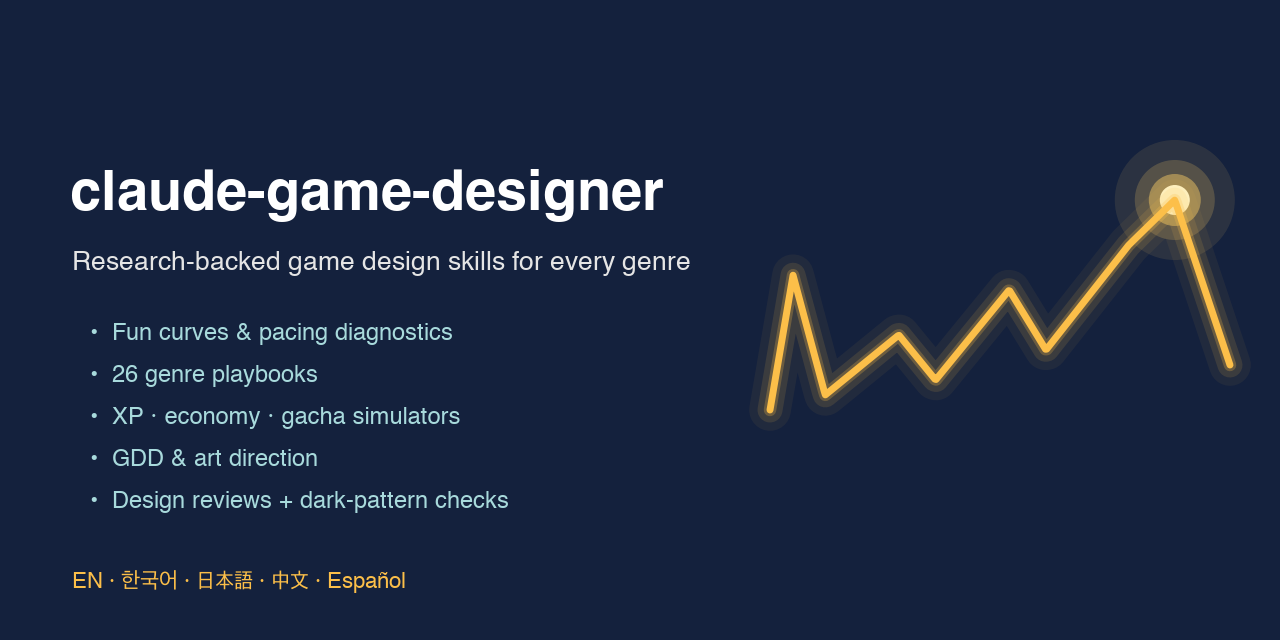
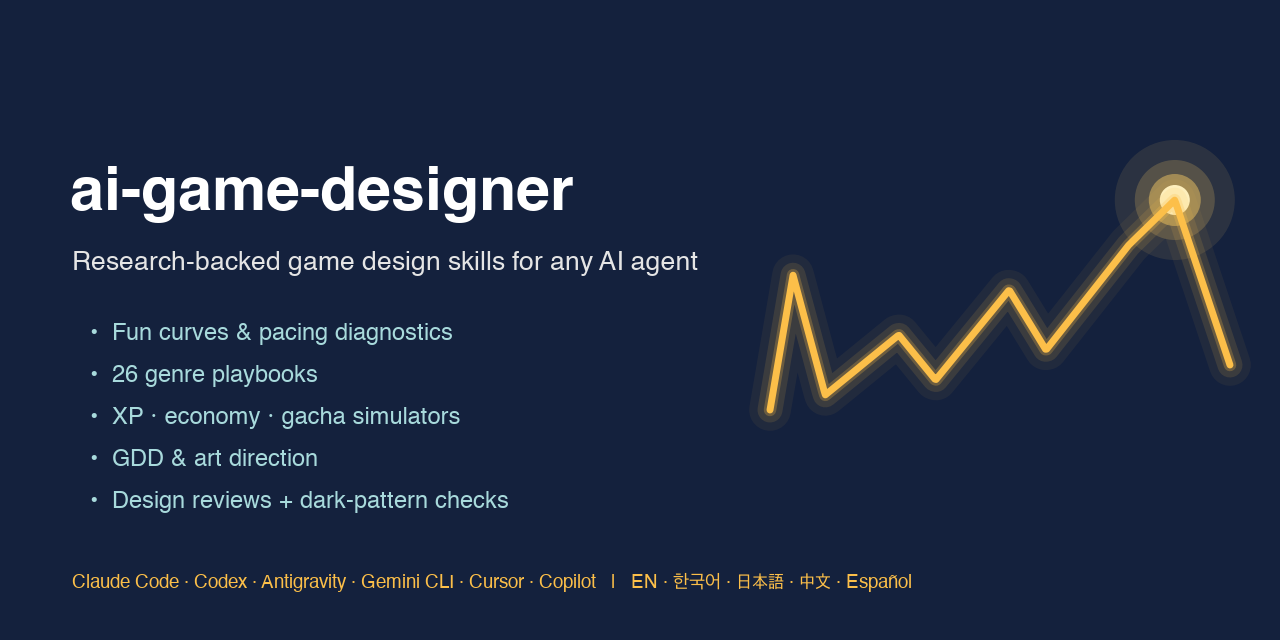
docs: rename to ai-game-designer and document cross-agent install
README/README.ko install tables per agent, showcase summary, banner,
changelog 1.1.0, contributing validators.

diff --git a/README.md b/README.md
@@ -1,5 +1,5 @@
 <p align="center">
-  <img src="docs/images/banner.png" alt="claude-game-designer: research-backed game design skills for every genre" width="100%">
+  <img src="docs/images/banner.png" alt="ai-game-designer: research-backed game design skills for any AI agent" width="100%">
 </p>
 
 <p align="center">
@@ -7,14 +7,14 @@
   <img alt="Skills: 6" src="https://img.shields.io/badge/skills-6-fcbf49">
   <img alt="Genre playbooks: 26" src="https://img.shields.io/badge/genre%20playbooks-26-2a78d6">
   <img alt="Languages" src="https://img.shields.io/badge/answers%20in-EN%20%C2%B7%20KO%20%C2%B7%20JA%20%C2%B7%20ZH%20%C2%B7%20ES-1baf7a">
-  <img alt="Works in Claude Code and the Claude app" src="https://img.shields.io/badge/works%20in-Claude%20Code%20%7C%20Claude%20app-14213d">
+  <img alt="Works with Claude Code, Codex, Antigravity, Gemini CLI, Cursor, Copilot" src="https://img.shields.io/badge/works%20with-Claude%20Code%20%C2%B7%20Codex%20%C2%B7%20Antigravity%20%C2%B7%20Gemini%20CLI%20%C2%B7%20Cursor%20%C2%B7%20Copilot-14213d">
 </p>
 
 <p align="center"><b>English</b> · <a href="README.ko.md">한국어</a></p>
 
-# claude-game-designer
+# ai-game-designer
 
-**Turn Claude into a senior game designer who can show its work.** Six skills cover every genre,
+**Turn any AI agent into a senior game designer who can show its work.** Six skills cover every genre,
 from first concept to soft launch: pacing you can plot, numbers you can simulate, documents your
 team will actually read, and reviews that catch dark patterns before players or regulators do.
 
@@ -29,10 +29,11 @@ team will actually read, and reviews that catch dark patterns before players or 
 - **Answers in your language.** It detects the language you write in, answers in it, and
   shows each technical term with the English term on first use, e.g. `관심 곡선 (Interest Curve)`.
   A 5-language glossary ships with it.
-- **Works everywhere.** Skills only: no MCP servers, API keys or hooks. Install it in Claude Code
-  or upload it to the Claude app.
+- **Works with your agent.** Native packages for Claude Code, OpenAI Codex, Antigravity and Gemini
+  CLI, plus an installer for Cursor, Copilot, OpenCode and any agent that reads `SKILL.md`
+  folders. Skills only: no MCP servers, API keys or hooks.
 
-> Unofficial community project. Not affiliated with or endorsed by Anthropic.
+> Unofficial community project. Not affiliated with or endorsed by Anthropic, OpenAI or Google.
 
 ---
 
@@ -76,37 +77,60 @@ and flags undercosted and overcosted cards.
 
 <p align="center"><img src="docs/images/cost-curve.png" width="60%" alt="Card cost curve with outliers"></p>
 
+## Showcase: six real sessions
+
+We ran six design sessions **in parallel** across **Claude Code, Codex and Antigravity**, in
+Korean, English, Japanese, Spanish and Chinese, each in a fresh project folder with an original
+concept. Every output file the agents wrote is in [`showcase/`](showcase/):
+
+| Agent | Language | Concept | Result |
+|---|---|---|---|
+| Claude Code | 한국어 | Cozy monster farm | Day pacing 29 → 92, plus brief and one-pager |
+| Claude Code | English | Tide-spell deckbuilder | Cost-curve R² 0.71 → 0.96, run curve fixed |
+| Claude Code | 日本語 | F2P gacha RPG | Inflation 5.12:1 → 1.00, worst case 300 → 120 pulls, monetization review |
+| Codex | English | Horror lighthouse chapter | Pacing findings 12 → 0, plus accessibility checklist |
+| Antigravity | Español | Garden tower defense | 30-level progression, 2 mis-costed towers fixed |
+| Codex | 中文 | Idle space mining | Prestige pacing, review with dark-pattern check |
+
+Real use also found a gap: the gacha simulator lacked 50/50 guarantees and spark exchanges. That's
+fixed in 1.1.0 ([details](showcase/README.md#what-real-use-taught-us-and-what-changed-in-110)).
+
 ---
 
 ## Install
 
-### Claude Code
+| Agent | How |
+|---|---|
+| **Claude Code** | `/plugin marketplace add bunhine0452/ai-game-designer` then `/plugin install game-designer@ai-game-designer` |
+| **OpenAI Codex** | `codex plugin marketplace add bunhine0452/ai-game-designer` then `codex plugin add game-designer@ai-game-designer` |
+| **Antigravity** | Clone the repo, then `agy plugin install ./ai-game-designer` |
+| **Gemini CLI** | `gemini extensions install https://github.com/bunhine0452/ai-game-designer` |
+| **Cursor, Copilot, OpenCode, others** | Clone, then `./install.sh --agent cursor` (or `copilot`, `opencode`, `universal`). See below |
+| **Claude app** (claude.ai / desktop) | Upload `game-designer.plugin` or the per-skill zips from the [latest release](https://github.com/bunhine0452/ai-game-designer/releases/latest) |
 
-```text
-/plugin marketplace add bunhine0452/claude-game-designer
-/plugin install game-designer@claude-game-designer
+### Any agent that reads `SKILL.md` folders
+
+```bash
+git clone https://github.com/bunhine0452/ai-game-designer
+cd your-game-project
+../ai-game-designer/install.sh                      # ./.agents/skills (Codex, Gemini CLI, Antigravity...)
+../ai-game-designer/install.sh --agent claude --scope user
+../ai-game-designer/install.sh --list-agents        # every known target and its paths
 ```
 
-Skills trigger automatically from what you ask. You can also call one directly, e.g.
-`/game-designer:fun-curve`.
+The installer copies the six skills (each with the shared glossary), or symlinks them with
+`--link`. Use `--dest <dir>` for any other agent. The repo also follows the standard
+`skills/<name>/SKILL.md` layout that the community `npx skills add bunhine0452/ai-game-designer`
+CLI scans (not tested here). Agents without skill support can follow [`AGENTS.md`](AGENTS.md).
 
-### Claude app (claude.ai / desktop)
+### Claude app notes
 
-1. Download the files from the [latest release](https://github.com/bunhine0452/claude-game-designer/releases/latest):
-   - `game-designer.plugin` (the whole plugin), for apps that support uploading plugins, or
-   - `skills/*.zip` (one zip per skill), for **Settings → Capabilities → Skills → Upload skill**.
-2. Turn on **code execution** so the scripts can run (charts appear when matplotlib is
-   available, otherwise text and CSV).
-3. Upload `game-design.zip` first: it's the router and holds the glossary. Add the others as
-   you need them. Each zip is self-contained.
+Upload `game-design.zip` first: it's the router and holds the glossary. Turn on **code
+execution** so the scripts can run (charts appear when matplotlib is available, otherwise text
+and CSV). Menu names differ between app versions. Look for "Skills" or "Plugins" in Settings.
 
-Menu names can differ between app versions. Look for "Skills" or "Plugins" in Settings.
-
-### Other agents that read `SKILL.md` folders
-
-Copy `skills/<name>/` into your agent's skills directory (e.g. `~/.claude/skills/`). The
-scripts are plain Python 3.
-
+In Claude Code, skills trigger automatically from what you ask, or you can call one directly,
+e.g. `/game-designer:fun-curve`.
 ---
 
 ## Usage examples
@@ -168,13 +192,16 @@ sources). The loot-box law map is dated **October 2026** and is **not legal advi
 
 Popular game-dev agent projects focus on *production* (studio role-play agents) or *engines*
 (Godot, Unity and Phaser skills). This plugin focuses on **design knowledge and analysis**:
-cited playbooks, runnable models and an ethics layer. It works in both Claude Code and the Claude
-app, and it pairs well with engine or production plugins. See the competitive scan in
+cited playbooks, runnable models and an ethics layer. It works across agents, and it pairs well
+with engine or production plugins. See the competitive scan in
 [`research/RESEARCH_NOTES.md`](research/RESEARCH_NOTES.md#e-competitive-scan).
 
 ## Quality checks
 
-- `claude plugin validate .` passes for both the plugin and the marketplace manifest.
+- Manifests validate with each agent's own tool: `claude plugin validate --strict`,
+  `agy plugin validate`, `gemini extensions validate`, and a Codex marketplace install
+  (`codex plugin marketplace add` then `codex plugin add`).
+- Codex and Antigravity both discovered all six skills from a project's `.agents/skills` folder.
 - Every script runs against the bundled examples (with and without matplotlib).
 - `evals/`: 18 trigger-and-language cases (3 per skill: English, Korean, and Japanese, Chinese or
   Spanish), run with `claude plugin eval .`. In the v1.0.0 run (Sonnet, 1 run per case), the right

diff --git a/CHANGELOG.md b/CHANGELOG.md
@@ -4,6 +4,36 @@ All notable changes to this project are documented here. The format follows
 [Keep a Changelog](https://keepachangelog.com/en/1.1.0/), and the project uses
 [Semantic Versioning](https://semver.org/).
 
+## [1.1.0] - 2026-10-30
+
+### Changed
+- Renamed the repository to **ai-game-designer** (was `claude-game-designer`). GitHub redirects
+  the old URL. The Claude Code marketplace is now `ai-game-designer`, so install with
+  `/plugin install game-designer@ai-game-designer`.
+- Skill text is agent-neutral. The icon moved to `assets/icon.png`.
+
+### Added
+- **Works beyond Claude.** Native packages for OpenAI Codex (root `plugin.json` in the Agent
+  Plugins format, `.codex-plugin/plugin.json`, `.agents/plugins/marketplace.json`), Gemini CLI
+  (`gemini-extension.json`) and Antigravity (validated with `agy plugin validate`).
+- `install.sh` / `tools/install.py`: install the skills into `.agents/skills` (shared path read
+  by Codex, Gemini CLI and Antigravity) or into Claude Code, Codex, Gemini CLI, Cursor, Copilot
+  or OpenCode directories, at project or user scope, by copy or symlink.
+- `AGENTS.md`: instructions for any agent working in the repo or using the skills without native
+  support.
+- `showcase/`: outputs from six real sessions run in parallel across Claude Code, Codex and
+  Antigravity in five languages.
+- `economy_sim.py`: optional `featured` (rate-up share, with a guarantee after a lost 50/50) and
+  `spark` (the featured item is guaranteed within N pulls) gacha settings. It computes the exact
+  featured-item distribution, checked against a 100k-run Monte Carlo, and the featured CDF appears
+  on the pity chart. Found in real use (showcase session 03).
+
+### Fixed
+- `NO_HARD_PITY` became `NO_CEILING`, which counts a spark or a 50/50 guarantee as a ceiling.
+  This removes a false warning on spark-based designs.
+- `progression_curve.py --curve all` skips a family that can't reach the target total, with a
+  note in the report, instead of aborting the whole comparison.
+
 ## [1.0.0] - 2026-10-30
 
 ### Added

diff --git a/CONTRIBUTING.md b/CONTRIBUTING.md
@@ -31,7 +31,8 @@ welcome.
 ## Before opening a pull request
 
 ```bash
-claude plugin validate .                     # manifests and skills
+claude plugin validate .                     # Claude Code manifests and skills
+agy plugin validate . && gemini extensions validate .   # other agents, if installed
 python3 skills/fun-curve/scripts/fun_curve.py skills/fun-curve/examples/roguelite-20min-run.csv --out /tmp/fc
 python3 skills/balance-economy/scripts/economy_sim.py skills/balance-economy/examples/f2p-economy.json --out /tmp/eco
 python3 tools/package.py                     # builds dist/ (plugin + per-skill zips)

diff --git a/research/SOURCES.md b/research/SOURCES.md
@@ -1,6 +1,6 @@
 # Sources
 
-Full bibliography for **claude-game-designer**. Every reference file in `skills/*/references/` cites
+Full bibliography for **ai-game-designer**. Every reference file in `skills/*/references/` cites
 entries from this list by ID (e.g. `[A5]`). Trust levels:
 
 - **P** — primary: the book, paper, talk, official document, or the designer's own writing.
